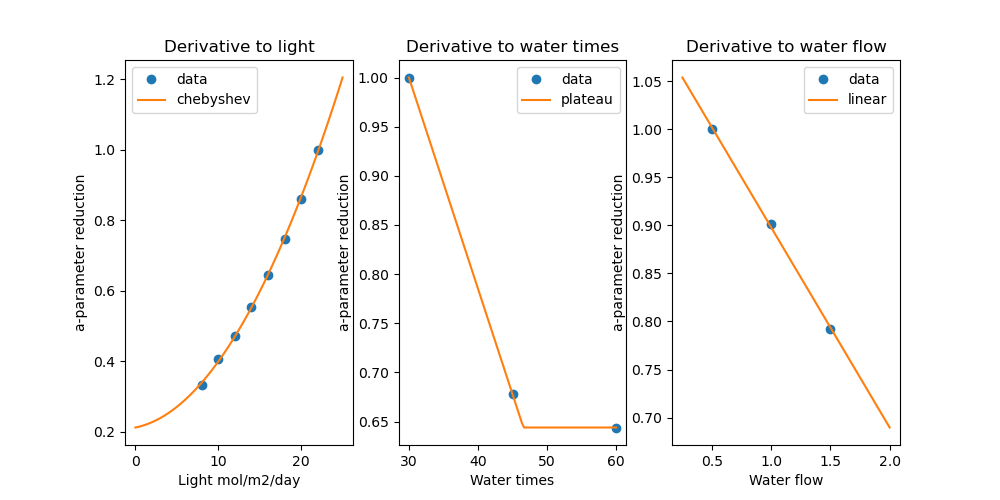
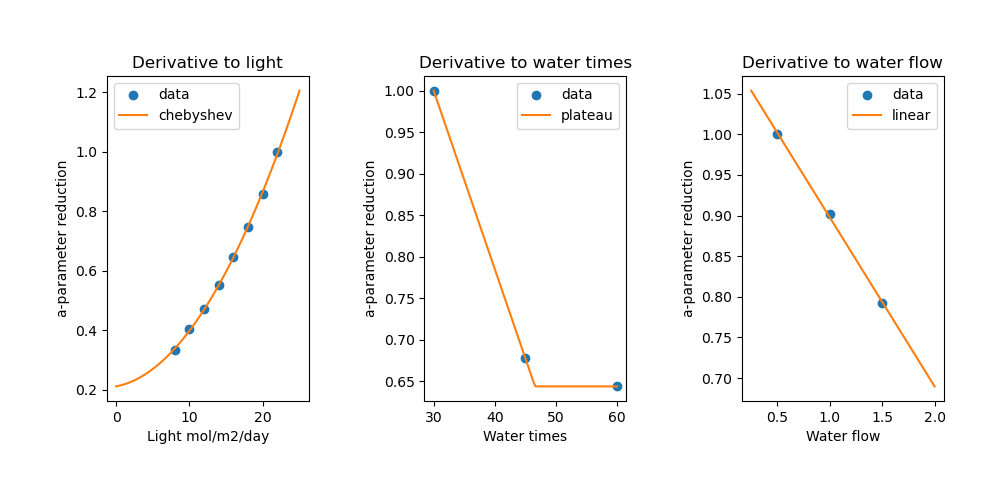
changes

diff --git a/optimization_cost.py b/optimization_cost.py
@@ -160,9 +160,9 @@ def output_results(res, opt, scenario):
     print(f"Water times : {water_times}")
     print(f"Water flow : {water_flow}")
     print("Total light : ", np.sum(light))
-    print(f"Light use efficiency: {b / np.sum(light):.2f}")
+    print(f"Light use efficiency: {b / np.sum(light):.4f}")
     wue = opt.aeroponic_model.wue_from_light(light).mean()
-    print(f"Water use efficiency: {wue:.2f}")
+    print(f"Water use efficiency: {wue:.4f}")
 
 if __name__ == "__main__":
     from aeroponic_model import AeroponicModel

diff --git a/aeroponic_model.py b/aeroponic_model.py
@@ -194,6 +194,7 @@ class AeroponicModel:
             ax3.legend(loc='best')
             ax3.set_xlabel('Water flow')
             ax3.set_ylabel('a-parameter reduction')
+            plt.tight_layout(pad=4)
             plt.savefig("calibration_parameters_loss_influence.png")
             plt.show()
 
